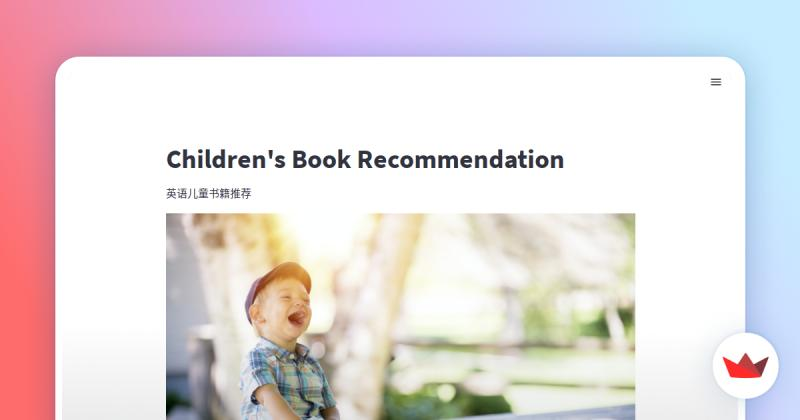
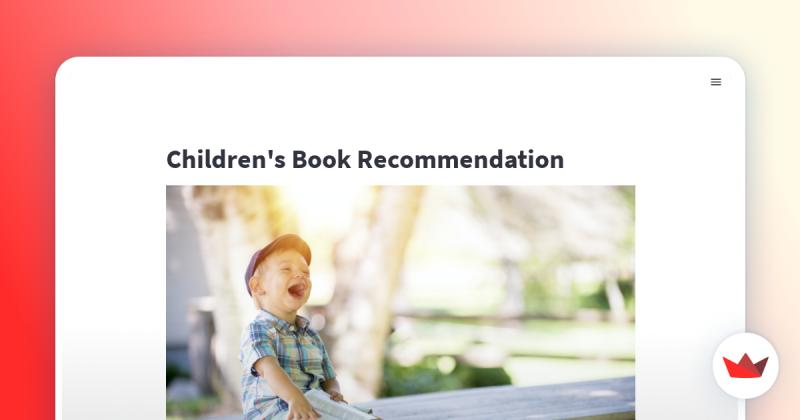
update info

diff --git a/index.md b/index.md
@@ -1,26 +1,8 @@
-## Selected projects in data science, machine learning, NLP and neural network
+## Data Science Projects
+Selected projects in data science, machine learning, NLP and neural network
 
 ---
 
-### Recommender systems making use of both content-based filtering and collaborative filtering, NLP on text data
-
-### [Children's Book Recommendation APP](https://sh-children-book-recommend.streamlit.app/)
-
-A children’s book recommendation mini-APP aims to help children improve English literacy. **Recommender systems** include content-based filtering, item-item collaborative filtering and Matrix Factorization models. **NLP**(Natural Language Processing) and other Machine Learning techniques applied.
-
-
-[<img src="images/book_word_cloud.png" title="Top words from book content" width="50.5%" />](images/book_word_cloud.png) [<img src="images/bookapp.jpeg" title = "Recommendation APP" width="48%" />](https://sh-children-book-recommend.streamlit.app/)
-
-
-[![](https://img.shields.io/badge/NLP-lightgrey?logo=NLP)](#) [![](https://img.shields.io/badge/Recommender_Systems-lightgrey?logo=Recommender)](#) [![](https://img.shields.io/badge/sklearn-lightgrey?logo=scikitlearn)](#) [![](https://img.shields.io/badge/Python-lightgrey?logo=Python)](#) [![](https://img.shields.io/badge/Pandas-lightgrey?logo=Pandas)](#) [![](https://img.shields.io/badge/Streamlit-lightgrey?logo=Streamlit)](#)
-
-[Read more](/book_recommend) 
-
-[View code on GitHub](https://github.com/sl-huo/book-recommend)
-
-
-
----
 
 ### Detecting fradulent e-commerce payment through predictive modelling: XGBoost and LGBM
 
@@ -57,7 +39,28 @@ Time series analysis for megabank stocks in the past 20 years, comparing stock p
 
 ---
 
-## Data Analysis & Visualizations
+### Recommender systems making use of both content-based filtering and collaborative filtering, NLP on text data
+
+### [Children's Book Recommendation APP](https://childrens-books.streamlit.app)
+
+A children’s book recommendation mini-APP aims to help children improve English literacy. **Recommender systems** include content-based filtering, item-item collaborative filtering and Matrix Factorization models. **NLP**(Natural Language Processing) and other Machine Learning techniques applied.
+
+
+[<img src="images/book_word_cloud.png" title="Top words from book content" width="50.5%" />](images/book_word_cloud.png) [<img src="images/bookapp.jpeg" title = "Recommendation APP" width="48%" />](https://childrens-books.streamlit.app)
+
+
+[![](https://img.shields.io/badge/NLP-lightgrey?logo=NLP)](#) [![](https://img.shields.io/badge/Recommender_Systems-lightgrey?logo=Recommender)](#) [![](https://img.shields.io/badge/sklearn-lightgrey?logo=scikitlearn)](#) [![](https://img.shields.io/badge/Python-lightgrey?logo=Python)](#) [![](https://img.shields.io/badge/Pandas-lightgrey?logo=Pandas)](#) [![](https://img.shields.io/badge/Streamlit-lightgrey?logo=Streamlit)](#)
+
+[Read more](/book_recommend) 
+
+[View code on GitHub](https://github.com/sl-huo/book-recommend)
+
+
+---
+
+## Data Analytics & Visualizations
+
+---
 
 ### London Cycling Analysis using Tableau
 Analyzing cycling journey across London during summer (July & August) in 2022. 

diff --git a/book_recommend.md b/book_recommend.md
@@ -5,7 +5,7 @@ How to support non-native speaker parents to find the most suitable books for th
 
 ## Recommendation Mini-APP
 
-[Children's Book Recommendation](https://sh-children-book-recommend.streamlit.app/) - Deployed on Streamlit
+[Children's Book Recommendation](https://childrens-books.streamlit.app) - Deployed on Streamlit
 <p align="center">
 <img src="images/bookapp.jpeg" />
 </p>
